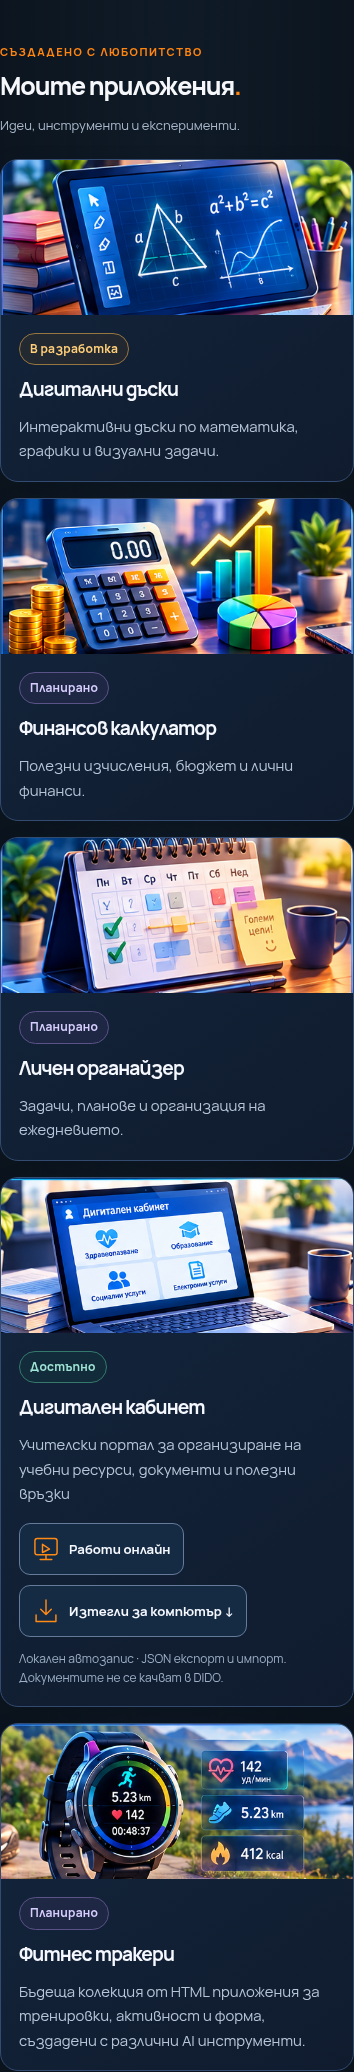
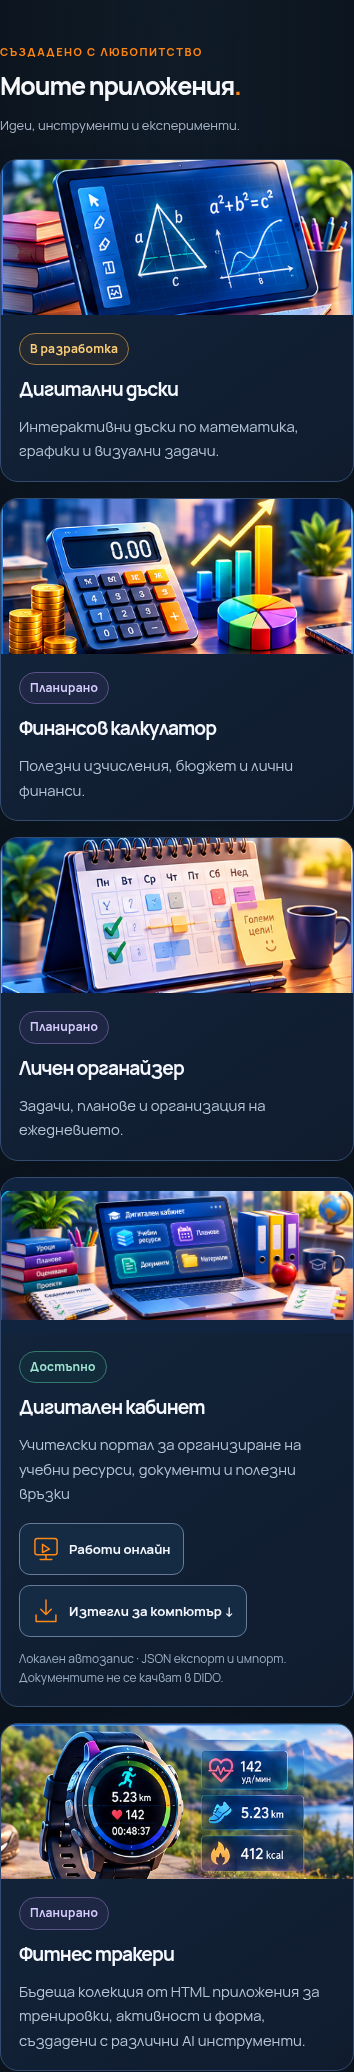
Replace cabinet artwork with corrected teacher portal illustration

Changed region(s): [[0.0, 0.556, 1.0, 0.6486]]

diff --git a/docs/DIDO-v0.8.1-APP-GALLERY.md b/docs/DIDO-v0.8.1-APP-GALLERY.md
@@ -8,9 +8,9 @@
 
 ## Оригинални изображения
 
-Използвани са петте оригинални PNG от `DIDO_v0.8.1_ORIGINALNI_5_PNG_KARTI.zip`. Няма AI прерисуване, подмяна или нова композиция. Изрязани са само горните правоъгълни илюстрации, за да не се дублират вградените текстове, статуси и бутони. Изрезките са PNG с непроменени пиксели, в `public/images/apps/`. Размерите на изрезките са 477×255, 493×255, 478×255, 736×245 и 735×245. Изображенията са декоративни, с празен alt; всички важни надписи и контроли са истински HTML.
+Използвани са четирите оригинални PNG за останалите приложения от `DIDO_v0.8.1_ORIGINALNI_5_PNG_KARTI.zip` и коригираната учителска илюстрация `222.png` от `222.zip` за кабинета. Няма AI прерисуване, подмяна или нова композиция. Изрязани са само горните правоъгълни илюстрации, за да не се дублират вградените текстове, статуси и бутони. Изрезките са PNG с непроменени пиксели, в `public/images/apps/`. Размерите на изрезките са 477×255, 493×255, 478×255, 1535×564 и 735×245. Изображенията са декоративни, с празен alt; всички важни надписи и контроли са истински HTML.
 
-Илюстрацията на кабинета е предоставеният оригинален графичен образец, не screenshot на приложението. Не е редактиран нарисуваният интерфейс в нея. HTML описанието ясно представя действителната функция за учителски ресурси.
+Илюстрацията на кабинета е новият предоставен образец с учебни ресурси, планове и документи, не screenshot на приложението. Изрезката е от (25, 28) до (1560, 592), без прерисуване. Използва се и като корица/hero на съществуващата публикация за кабинета. Alt текстът е „Дигитален кабинет – учителски портал“. Само за тази илюстрация е приложено `object-fit: contain`, за да няма разтягане или изрязване на учебните елементи в запазените размери на картата.
 
 Картите показват илюстрациите в ограничена височина 170 px (155 px на телефон), не като големи банери. CSS подрежда 3+2 карти на широк екран, две колони на среден и една на малък екран. Има леко повдигане, мек светлинен ефект и фино движение на изображението само при hover; няма непрекъснати анимации или нови зависимости. `prefers-reduced-motion` изключва движението. Реалните връзки имат видим клавиатурен фокус и достатъчни зони за докосване.
 
@@ -20,7 +20,7 @@
 - `/tehnologii/digitalen-kabinet/`
 - `/downloads/digitalen-kabinet.html`
 
-Запазени са анимациите `boot` на монитора и `download` на стрелката, с по-компактни контроли. Самостоятелният HTML и страницата, която го зарежда, не са променяни. localStorage ключовете, автозаписът, темите, JSON експортът и потвърденият импорт са същите. Няма промени в GPX данни/код, публикации, меню, лични рекорди или настройки на сайта.
+Запазени са анимациите `boot` на монитора и `download` на стрелката, с по-компактни контроли. Самостоятелният HTML и страницата, която го зарежда, не са променяни. localStorage ключовете, автозаписът, темите, JSON експортът и потвърденият импорт са същите. Няма промени в GPX данни/код, текстовете на публикациите, меню, лични рекорди или настройки на сайта; единствената промяна в публикация е корицата на кабинета.
 
 Съществуващият CMS запис „Дигитален кабинет — представяне“ продължава да управлява заглавие, описание и изображение, вече вътре в картата. Не е добавена нова CMS схема.
 
@@ -35,3 +35,5 @@
 Без merge в main. Версията е за преглед и одобрение.
 
 Финален резултат: `npm run verify` с четирите браузърни модула — **68/68 успешни, 0 пропуснати**. Pages CMS, Astro/TypeScript (0 грешки, 0 предупреждения), production build и регресионните тестове за GPX са успешни. След последната визуална донастройка production build и браузърният тест за галерията/кабинета са повторени успешно; проверени са активните анимации при обикновено движение и липсата им при reduced-motion, както и размерите на зоните за докосване.
+
+Корекция на изображението: корицата на публикацията и картата използват новата учителска илюстрация от `222.zip`. Останалите четири PNG, адресите на бутоните и standalone HTML са непроменени. Повторени успешно: Astro/TypeScript (0 грешки/предупреждения), production build, 5 целеви теста за локалните връзки/съдържание/кабинета и браузърният тест на 320/390/768/1440 px (включително CRUD/JSON/изтегляне/анимации). Визуално прегледани 390/1440 px; изображенията не са разтеглени, илюстрацията на кабинета се побира изцяло. Screenshots са обновени. Ръчна CMS настройка не е необходима.

diff --git a/src/content/posts/2026-11-07-172303-digitalen-kabinet-za-uchiteli-portal-za-razlichni-resursi.md b/src/content/posts/2026-11-07-172303-digitalen-kabinet-za-uchiteli-portal-za-razlichni-resursi.md
@@ -1,6 +1,6 @@
 ---
 title: Дигитален кабинет за учители - портал за различни ресурси.
-cover: /images/Дигитален кабинет за учители.png
+cover: /images/apps/04_digitalen_kabinet.png
 category: Технологии
 date: 2026-11-07
 status: published
